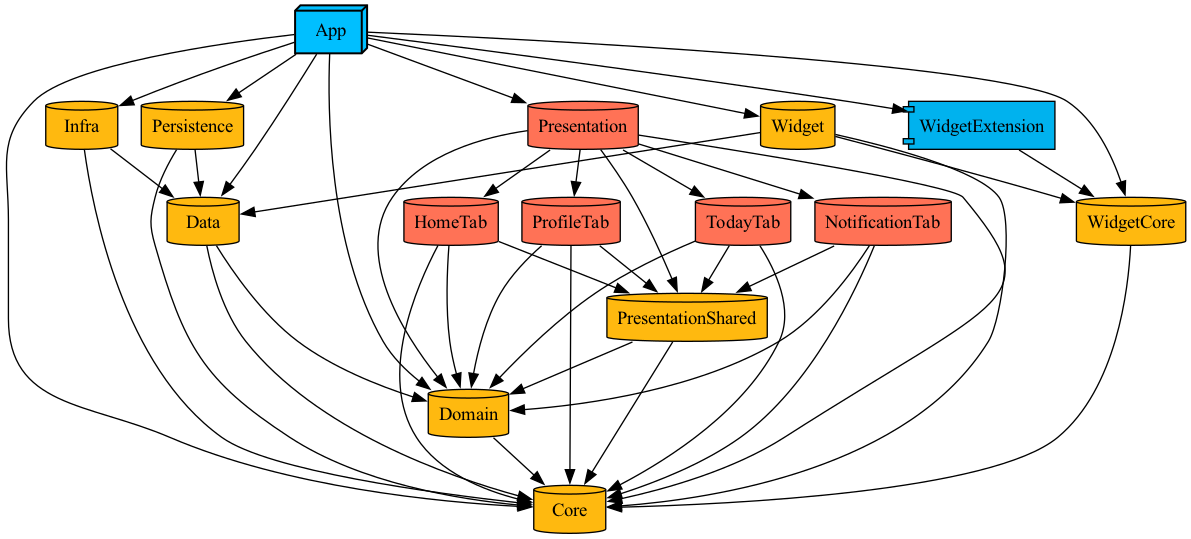
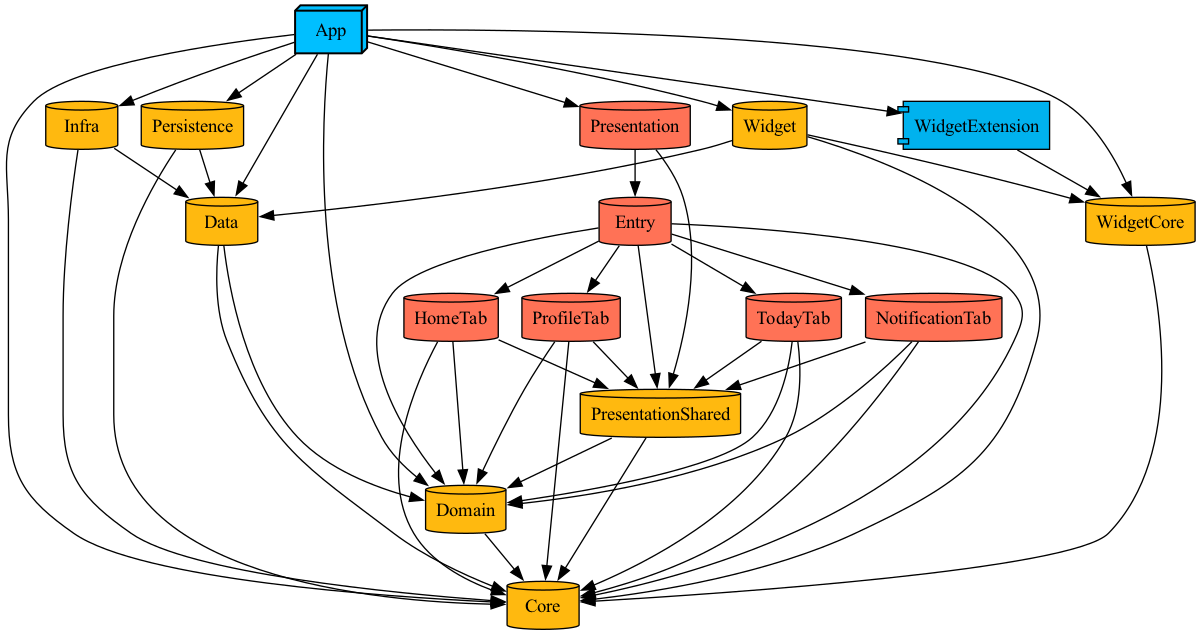
docs: Presentation Entry 구조 갱신

diff --git a/.hermes/skills/devlog-architecture-harness/references/devlog-architecture-flow.md b/.hermes/skills/devlog-architecture-harness/references/devlog-architecture-flow.md
@@ -132,8 +132,9 @@ flowchart TD
 
 ## Presentation target structure
 
-- `Presentation` uses `Application/Presentation/Entry/Sources/**/*.swift` as its source glob and validates through `PresentationTests` with `Entry/Tests/**/*.swift`.
-- `Entry` owns root, auth, login, main tab shell, window, and global route responsibilities.
+- `Presentation` preserves `App -> Presentation` imports and re-exports the entry API through `Application/Presentation/Sources/**/*.swift`.
+- `Entry` owns root, auth, login, main tab shell, window, and global route responsibilities. It owns the `Domain` references needed by those flows.
+- `EntryTests` validates `Entry` through `Application/Presentation/Entry/Tests/**/*.swift`.
 - `HomeTab`, `TodayTab`, `NotificationTab`, and `ProfileTab` remain tab-specific feature targets and each target owns the `Domain` references it needs.
 - `PresentationShared` owns shared Todo, Search, Loading UI, and presentation contracts.
 - `App` owns composition root, lifecycle, and assembler wiring. It must not take ownership of presentation feature or root flows.
